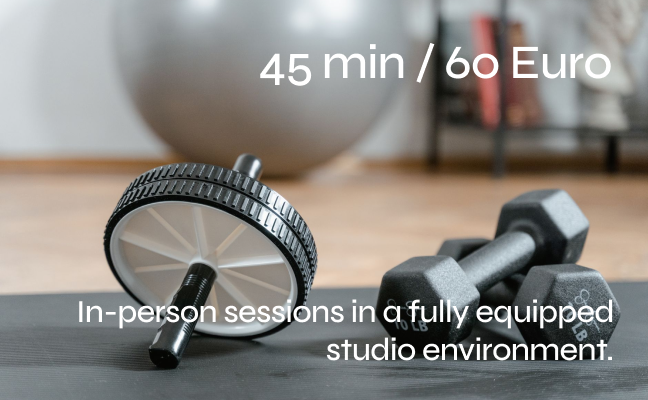
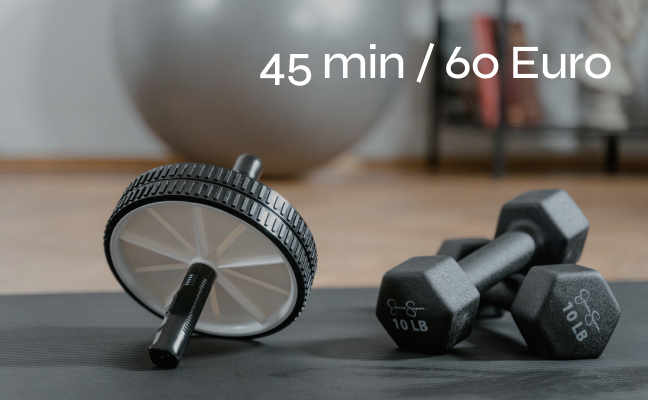
Add dedicated photos for Online Sessions and At your place location cards
- Online Sessions: therapeutic-training.png -> Image online sessions.png
- At your place: massage.png -> Image At your place.png
- Refreshed Image At funky studio.png with updated export

All three (648x400) match the preview box's existing aspect ratio.

diff --git a/src/components/LocationSection.tsx b/src/components/LocationSection.tsx
@@ -15,13 +15,13 @@ const locations = [
     title: 'Online Sessions',
     description: 'Guided virtual sessions tailored to your needs, wherever you are.',
     prices: ['60 min / EUR 60'],
-    image: '/therapeutic-training.png',
+    image: '/Image online sessions.png',
   },
   {
     title: 'At your place',
     description: 'Personalized treatment delivered in the comfort of your home.',
     prices: ['60 min / EUR 90'],
-    image: '/massage.png',
+    image: '/Image At your place.png',
   },
 ];
 
